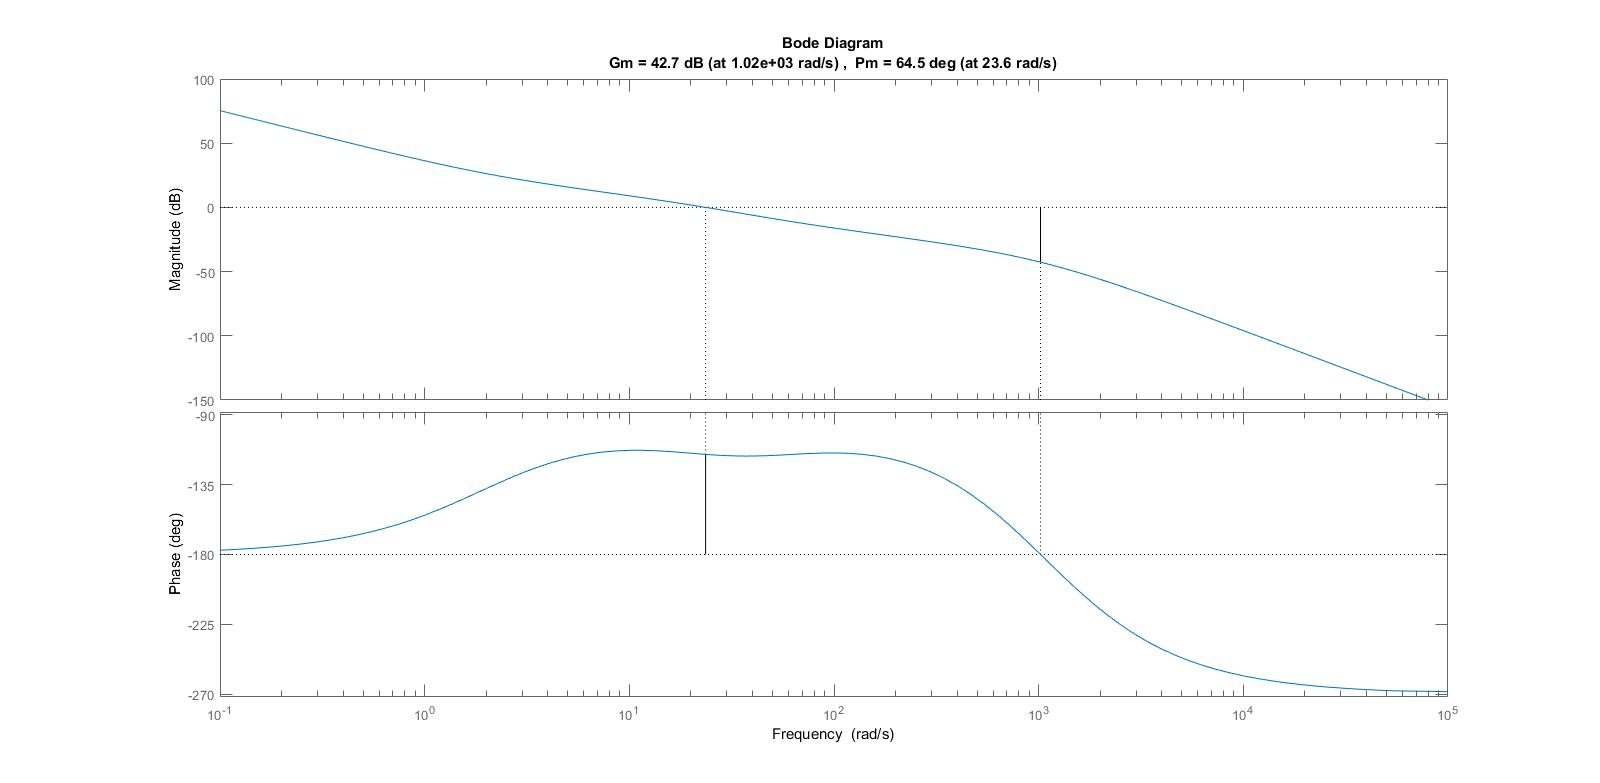
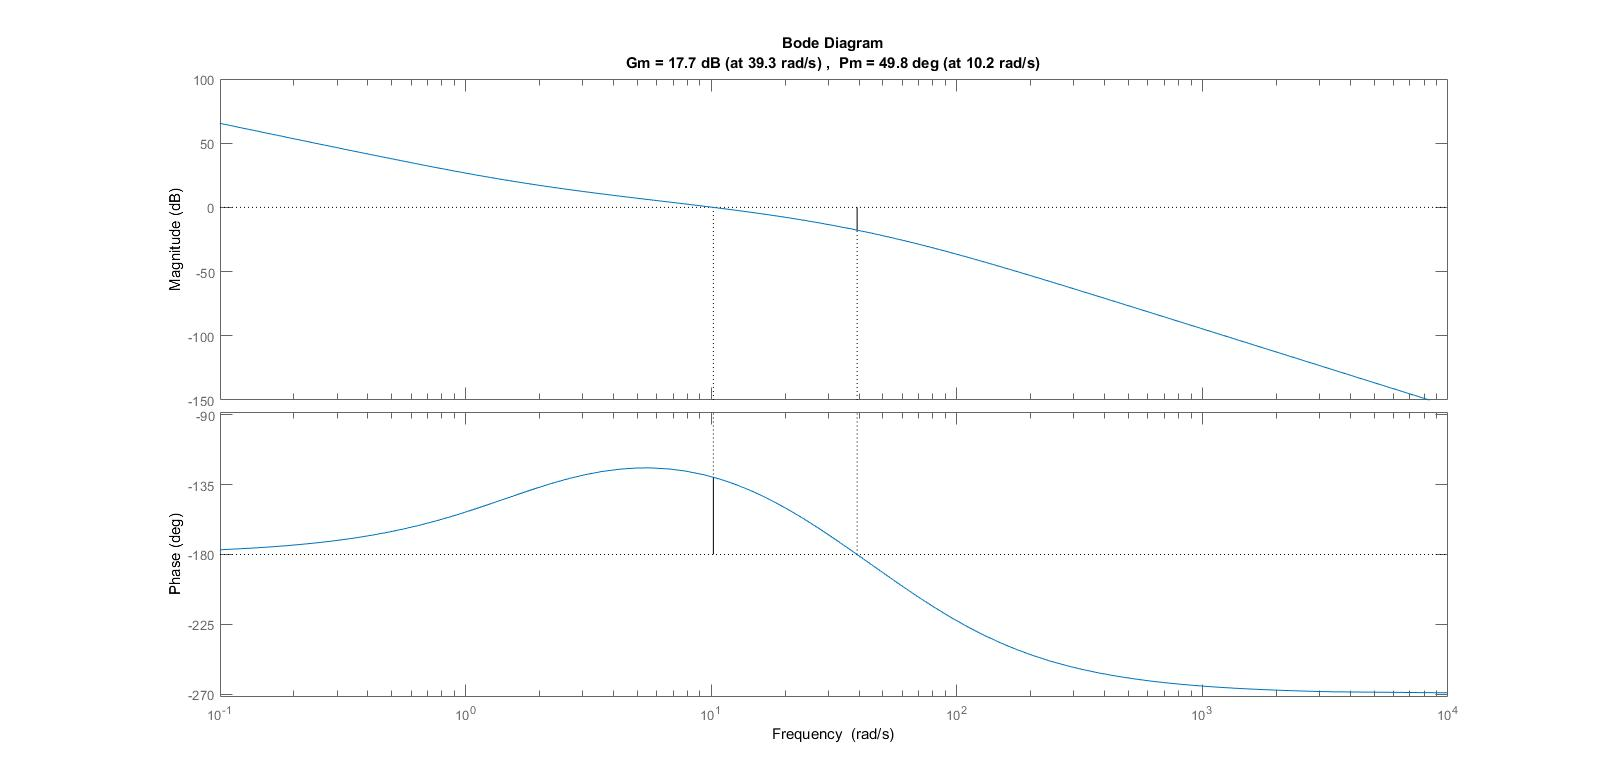
design is finished-ish

diff --git a/Report/chapters/Design/rocket/rocket_design_controller.tex b/Report/chapters/Design/rocket/rocket_design_controller.tex
@@ -64,100 +64,39 @@ The rocket built however doesn't have any sensors to measure the servomotors so 
 Instead an attempt to control the system using an inner loop.
 
 \subsection{Controlling the Rocket Angle without Cascade Control}
-To move the poles to the left half plane, a controller C1, adding a zero and a pole on the left side, is implemented to the rocket transfer function. The zero of the controller is chosen to be near the system in order to attract the poles. The pole of the controller is set at high frequency to not temper with the system. Common practice recommends placing the pole at a location 20-40 times larger than the zero. The controller C1 is shown on \autoref{eq:TfC1}.
+To move the poles to the left half plane, a controller C1, adding a zero and a pole on the left side, is implemented to the rocket transfer function. If the zero is placed to close to the servo pole the loci will not be attracted to the real axis. Common practice recommends placing the pole at a location 20-40 times larger than the zero. Thus the zero of the controller is chosen experimentaly near the system in order to attract the poles, and the pole of the controller at a 40 times larger position. The controller C1 is shown on \autoref{eq:TfC1}.
 \begin{equation}
-C1 = \frac{s + 2}{s + 40}	\label{eq:TfC1}
+C1 = \frac{s + 1.7}{s + 68}	\label{eq:TfC1}
 \end{equation}
-\todo[inline,author=Jacob]{Please check these values!}
 
 \begin{figure}[htbp]
 \centering
-\includegraphics[width=\textwidth]{figures/Rocket/design/tf_with_controllerC1}
+\includegraphics[width=\textwidth]{figures/Rocket/design/tf_with_controller_final_general}
 \caption{Root locus of the system with a lead controller, C1, added.}
 \label{fig:SystemC1}
 \end{figure}
 
-\begin{figure}[htbp]
-\centering
-\includegraphics[width=\textwidth]{figures/Rocket/design/tf_with_controllerC1_zoom}
-\caption{Focus on low frequencies.}
-\label{fig:SystemC1zoom}
-\end{figure}
-
-\todo[inline,author=Jacob]{The second controller is useless so you should clean this up. I didn't read any further than here. I can do the root locus graphs once you are sure about your lead controller pole-zero locations.}
-Another controller C2 is needed to attract the two poles going to infinity along the imaginary axis. The controller and the new rocket transfer function are shown on \autoref{eq:TfC1C2}.
-
-\begin{subequations}
-	\begin{flalign}
-		& C2 = \frac{s + 50}{s + 1100}	\\
-		& H = \frac{s + 2}{s + 1000} \cdot \frac{s + 50}{s + 1100} \cdot \frac{1}{s \cdot \uptau + 1} \cdot \frac{F_t \cdot L_{Cg} \cdot \frac{1}{M_r \cdot L_{Es}^2}}{s^2}
-		\label{eq:TfC1C2}
-	\end{flalign}
-\end{subequations}
-
-The pole and zeros of C2 are set at higher frequencies than the first controller C1. The root locus is shown on \autoref{fig:SystemC1C2}.
-
-				% Figure of final tf with controllers 
-\begin{figure}[htbp]
-	\centering
-	
-		\includegraphics[width=\textwidth]{figures/Rocket/design/tf_with_controller_1_vf2}
-		\caption{Root locus of the rocket transfer function.}
-		\label{fig:SystemC1C2}
-		
-\end{figure}
-
 The rocket requires a fast settling time and rise time in order to act as soon as possible and control the rocket's stability. Lead compensaters enable the modulation of the rise time, but impact the overshoot. The overshoot is considered as an inferrior error, being in part countered by the play of the gimbal system. 
+According to the specification the setling time should be faster than 1.5 second and the overshoot less than 25 per cent.
 
-To improve the rise time, the gain is set at $161$ \si{\dB}. This value is chosen by observing the root locus and the gain of a set point, as shown on \autoref{fig:SystemC1C2Zoom}. 
+To improve the rise time, the gain is set at $0.404$ \si{\dB}. This value is chosen by observing the root locus and the gain of a set point, as shown on \autoref{fig:SystemC1C2Zoom}.  
 
-				% Figure of chosen point, and of final tf with 2.15*10^3
+				% Figure of chosen point
 \begin{figure}[htbp]
 	\centering
 	
-	\includegraphics[width=\textwidth]{figures/Rocket/design/tf_with_controller_1_zoom_v3}
+	\includegraphics[width=\textwidth]{figures/Rocket/design/tf_with_controller_final}
 	\caption{Set point at the start of the circle.}
 	\label{fig:SystemC1C2Zoom}
 	
 \end{figure}
 
-The system can have a faster rising time according to the step response of the servomotors, as shown on \autoref{tab:TableStepr}. To further improve the rise time and setling time of the rocket transfer function until the pysical limits of the servomotors, a gain of 400 is chosen. 
-
-\begin{table}[htbp]
-	\centering
-	\caption{Simulated step responses.}
-	\label{tab:TableStepr}
-	\begin{tabular}{llll}
-		Transfer function & Rise time{(}s{)} & Setling time{(}s{)} & Overshoot{(}percentage{)} \\ \hline  \rowcolor{lightGrey}
-		Servomotors     & 0.0589 & 0.0782 & 0\\  
-		Gain of $1$     & 3.6620 & 128.1862 & 77.1429  \\  
-		\rowcolor{lightGrey}           
-		Gain of $116$     & 0.1666 & 1.2063 & 14.5434  \\
-		Gain of $400$     & 0.0625 & 0.5757 & 12.3234      \\  
-		\rowcolor{lightGrey}     
-	\end{tabular}
-\end{table}
-
-The controlled rocket transfer function is observed on \autoref{fig:FinalRocketTf} and \autoref{fig:FinalRocketTfZoom}. 
-				% Figure of final tf with 5*10^3
-\begin{figure}[htbp]
-	\centering
-	\includegraphics[width=\textwidth]{figures/Rocket/design/tf_with_controller_483}
-	\caption{Root locus of the rocket transfer function with a gain of $400$ \si{\dB}.}
-	\label{fig:FinalRocketTf}
-\end{figure}
-
-\begin{figure}[htbp]
-	\centering
-	\includegraphics[width=\textwidth]{figures/Rocket/design/tf_with_controller_483_zoom}
-	\caption{Focus on lower frequencies.}
-	\label{fig:FinalRocketTfZoom}
-\end{figure}
-
+To further improve the rise time and setling time of the rocket transfer function until the pysical and specification limits, the gain is doubled. 
 The step response of the controlled rocket transfer function is shown on \autoref{fig:StepFinalRocket}.
+
 \begin{figure}[htbp]
 	\centering
-	\includegraphics[width=\textwidth]{figures/Rocket/design/stepresponse_400}
+	\includegraphics[width=\textwidth]{figures/Rocket/design/step_response_final}
 	\caption{Step response of the rocket transfer function.}
 	\label{fig:StepFinalRocket}
 \end{figure}
@@ -175,7 +114,7 @@ The bodeplot of the controlled rocket transfer function is shown on \autoref{fig
 The controlled rocket transfer function obtained is shown on equation \autoref{eq:RocketTfEqu} and  \autoref{fig:FinalChartNumbers}.
 
 \begin{equation}    
-H = 400 \cdot \frac{s + 2}{s + 1000} \cdot \frac{s + 50}{s + 1100} \cdot \frac{1}{s \cdot \uptau + 1} \cdot \frac{F_t \cdot L_{Cg} \cdot \frac{1}{M_r \cdot L_{Es}^2}}{s^2}  
+H = 0.404 \cdot \frac{s + 1.7}{s + 68} \cdot \frac{1}{s \cdot \uptau + 1} \cdot \frac{F_t \cdot L_{Cg} \cdot \frac{1}{M_r \cdot L_{Es}^2}}{s^2}  
 \end{equation}
 \label{eq:RocketTfEqu}
 
